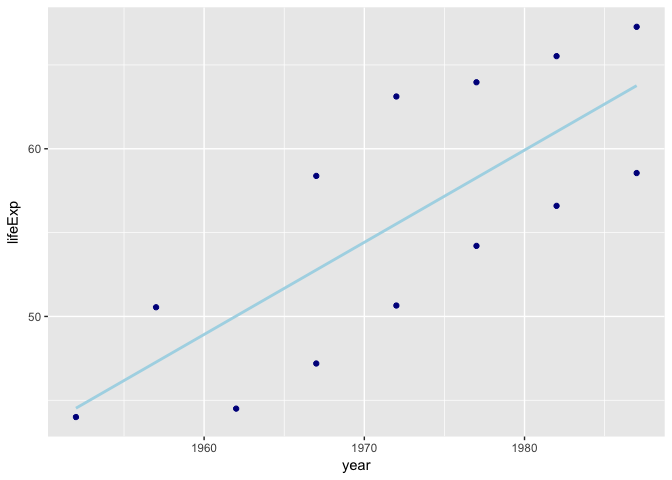
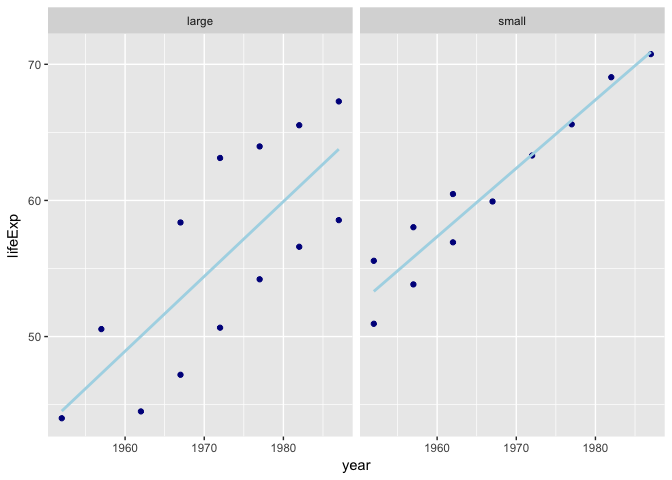
all

diff --git a/hw02/Gapminder_explore.md b/hw02/Gapminder_explore.md
@@ -141,13 +141,7 @@ This is a bit hard to read so here is a graph: ![](Gapminder_explore_files/figur
 
 For the lower populations, we see a clear increase in life expectancy over the years toping out at just over 70 for 1990s.
 
-I was curious if higher population places in Asia would see a higher trend, perhaps by being in a larger country that may have more resources. Since I'd like to compare between the same time period, I limited my graph to populations over 500 million and to years prior to 1990.
-
-![](Gapminder_explore_files/figure-markdown_github-ascii_identifiers/unnamed-chunk-19-1.png)
-
-This seems to show the same trend but the life expectancy is lower at every data point.
-
-To better directly compare these groups which are under half a million and those over 500 million: A word of advice here is to check with View after each mutate line (like below) so that you can check what it is doing as you go.
+I was curious if higher population places in Asia would achieve a higher life expectancy faster, perhaps by being in a larger country that may have more resources. Since I'd like to compare between the same time period, I limited my graph to populations over 500 million and to years prior to 1990. To better directly compare these groups which are under half a million and those over 500 million I put these side by side.
 
 ``` r
 gapminder  %>% 
@@ -161,21 +155,25 @@ ggplot( aes(x=year, y=lifeExp)) +
     geom_point(colour="dark blue") + geom_smooth(se = FALSE,method='lm', colour="light blue")
 ```
 
-![](Gapminder_explore_files/figure-markdown_github-ascii_identifiers/unnamed-chunk-20-1.png)
+![](Gapminder_explore_files/figure-markdown_github-ascii_identifiers/unnamed-chunk-19-1.png)
+
+This seems to show the same trend but the life expectancy is lower at every data point.
+
+> A word of advice here is to check with View after each mutate line (like below) so that you can check what it is doing as you go.
 
 Perhaps though a better way to compare is to graph year and life expectancy and vary population plot point sizes:
 
-![](Gapminder_explore_files/figure-markdown_github-ascii_identifiers/unnamed-chunk-21-1.png)
+![](Gapminder_explore_files/figure-markdown_github-ascii_identifiers/unnamed-chunk-20-1.png)
 
 This makes it a lot easier to see that the lower population countries have higher life expectancy.
 
-However, it this is a huge simplification as it really depends on how you look at the data. For example if we compare 3 continents prior to 1990 and with populations under half a million: ![](Gapminder_explore_files/figure-markdown_github-ascii_identifiers/unnamed-chunk-22-1.png)
+However, it this is a huge simplification as it really depends on how you look at the data. For example if we compare 3 continents prior to 1990 and with populations under half a million: ![](Gapminder_explore_files/figure-markdown_github-ascii_identifiers/unnamed-chunk-21-1.png)
 
 These graphs show differences in the relationship between population and life expectancy between continents.
 
 Here's another way to show the oversimplificaiton of the above graphs. By focusing on just four countries, you can see that here Japan has the highest population but consistently has higher life expectancy. I also found a theme to make this a bit more organized and professional looking. There is a whole package: ggthemes
 
-![](Gapminder_explore_files/figure-markdown_github-ascii_identifiers/unnamed-chunk-23-1.png)
+![](Gapminder_explore_files/figure-markdown_github-ascii_identifiers/unnamed-chunk-22-1.png)
 
 I want to do more
 -----------------

diff --git a/README.md b/README.md
@@ -9,16 +9,17 @@
 This part seemed pretty easy since we did it in class. 
 
 ### Smell test the data
-Getting the results from these questions was fine for the most part. All the code here was provided in lecture. I did get a bit confused in the first two questions which ask if this is a data.frame and what class the data is? The structure code revealed that gapminder was a data.frame but the class code showed it was a tibble and data.frame. I wasn't sure what the difference was between these two. After going to the TAs I found....
+Getting the results from these questions was fine for the most part. All the code here was provided in lecture. I did get a bit confused in the first two questions which ask if this is a data.frame and what class the data is? The structure code revealed that gapminder was a data.frame but the class code showed it was a tibble and data.frame. I wasn't sure what the difference was between these two. After going to office hours though this was clarified that a tibble is a special type of data.frame with more flexibility and options. 
 
 
 ### Explore individual variables
-I decided to explore the quantitative variables: Country, continent, year and life expectancy. At first I ran the `summary` function on all but realized this didn't tell me much about the country variable since there were so many items. So instead I ran 
+I decided to explore the quantitative variables: Country, continent, year and life expectancy. At first I ran the `summary` function on all but realized this didn't tell me much about the country variable since there were so many items. So instead I ran `n_distinct` to get the number of countries in the data set. 
 
 ### Exploring various plot types
 This was a lot of fun. I first just plotted the population and year and then once I realized that there were two population trends I tried to focus on just two countries likely to have different population trends. I then just poked around with some of the other data and continued to filter down groups to compare with. 
 Please don't judge my plot decisions to harshly. I was really just playing around with things to do. 
 After trying to compare more graphs next to each other I learned that you need to use facet_wrap when you have only a few graphs, facet_grid wont work. 
+I really wanted to compare populations below half a million and those over 500 million, the mutate function proved to be very difficult for this. I get help from one of the TAs who showed me this cool function of putting `View` right after the piping symbol which pulls up a tab of your current data. If you use this `View` function then you need to remove it before you knit or you'll just get errors and it will stop at the line with `View`
 
 ## I want to do more
 I understand that this is wrong an obviously gives you an incomplete output but I'm not entirely sure why. After the TAs advice here's what I think: 
